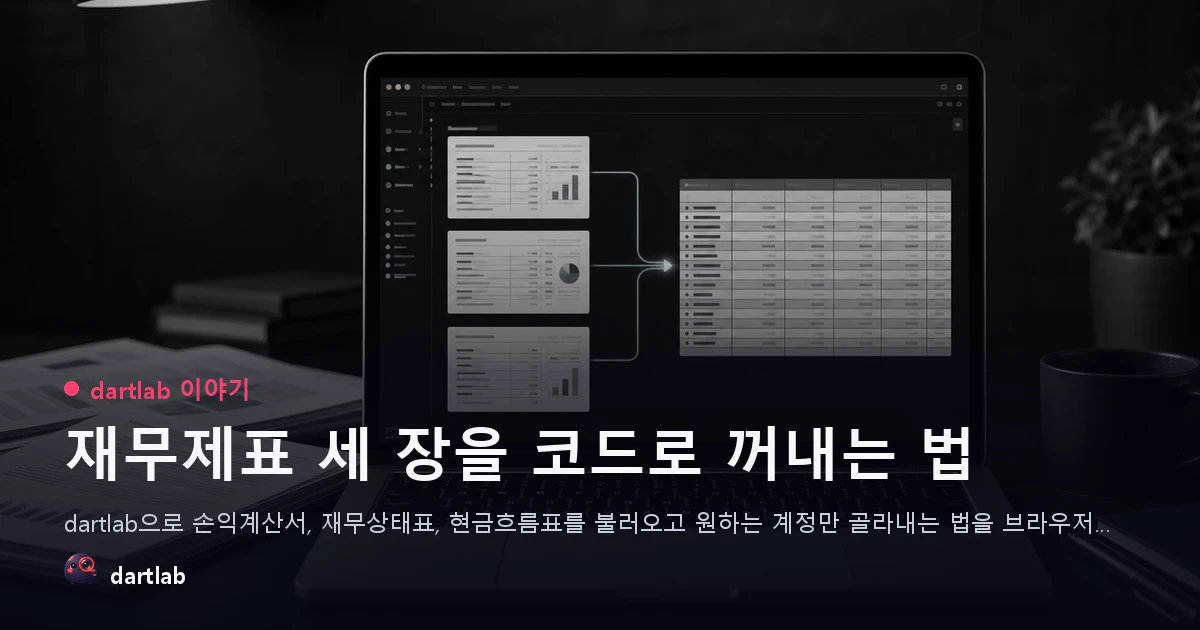
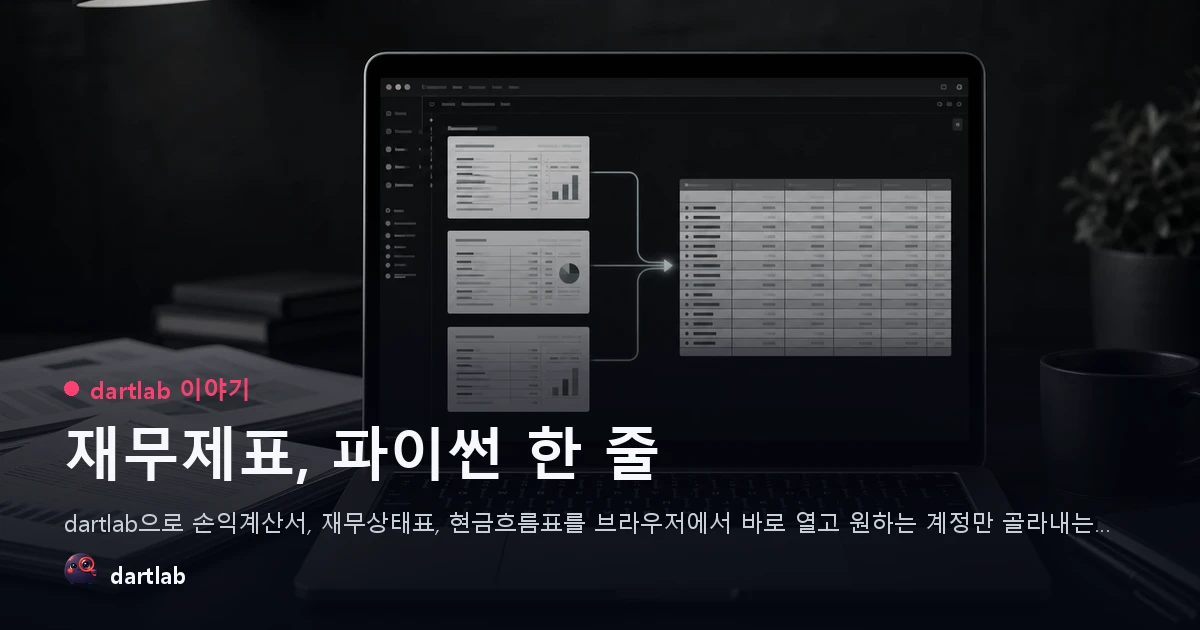
수정: dartlab 이야기 제목 파이프라인 강화

Changed region(s): [[0.2467, 0.6635, 0.74, 0.7841], [0.4933, 0.8143, 0.925, 0.8444], [0.7708, 0.6635, 0.8325, 0.7841]]

diff --git a/blog/_scripts/blog_plan_loop.workflow.js b/blog/_scripts/blog_plan_loop.workflow.js
@@ -267,7 +267,7 @@ if (contentKind === 'dartlab-stories') {
 // 이 편이 안 갚는다고 깎는다. 88~89 점에서 영영 도는 함정이었다(2026-07-10 실측).
 // 그래서 이 장르는 자기 원칙을 따로 가진다. 평가자·회의자도 같은 원칙으로 심사한다.
 const STORY_PRINCIPLES = `dartlab 이야기(교육 연재) 원칙(합격선):
-0. 제목: 이 편을 다 읽으면 독자가 무엇을 할 수 있게 되는지 약속한다. 그 약속을 이 편 안에서 반드시 갚는다. 다음 편으로 미룰 약속은 제목에 걸지 않는다. 안 갚는 미스터리 훅("왜 그 해만 꺼졌나")은 실패다. 후보 3개 이상을 비교한다.
+0. 제목 파이프라인: 먼저 외부 검색자가 칠 말 하나를 고른다(DART 공시분석, 재무제표 파이썬, 사업보고서 코드). 제목은 18자 안팎, 최대 24자다. 구조는 "검색어, 즉시 효용" 또는 "대상, 행동 한 줄"만 인정한다. "무엇인가", "사용법 정리", "총정리", "하는 법"만 늘인 제목, 브랜드 소개형 제목, 긴 문장형 제목은 실패다. 후보 3개 모두 이 기준을 통과해야 한다.
 1. 관통선: 독자가 지금 당장 하고 싶은 일 하나("재무제표를 어떻게 꺼내나"). 회사의 이상한 숫자가 아니다. 이 연재의 주어는 도구이지 회사가 아니다.
 2. 핵심 인싸이트: 이 편이 가르치는 개념 하나. 다 읽고 나면 독자가 그 개념으로 새로운 것을 직접 해 볼 수 있어야 한다. 통념 반전이 아니라 능력 획득이 payoff 다.
 3. 단계 구조: 최소 3단계. 무엇을 왜 배우나, 직접 해 본다, 무엇을 얻었고 다음은 무엇인가. 6막 인과가 아니다. 각 단계는 앞 단계가 준 능력을 딛는다.

diff --git a/blog/_scripts/auditBlog.py b/blog/_scripts/auditBlog.py
@@ -63,6 +63,12 @@ BLOG_REQUIRED_PLAN_FIELDS = (
     "honestyGuards",
     "evidenceMap",
 )
+DARTLAB_TITLE_FORBIDDEN_RE = re.compile(r"무엇\s*인가|사용법|총정리|정리$|하는\s*법|꺼내는\s*법|호출\s*방법|소개")
+DARTLAB_TITLE_SEARCH_RE = re.compile(
+    r"DART|EDGAR|공시|재무제표|사업보고서|손익계산서|재무상태표|현금흐름표|계정|데이터",
+    re.I,
+)
+DARTLAB_TITLE_ACTION_RE = re.compile(r"설치|파이썬|코드|브라우저|한\s*줄|조회|불러오|실행|시작|열기|분석")
 
 
 @dataclass
@@ -314,6 +320,22 @@ def _compact_len(value: object) -> int:
     return len(re.sub(r"[^0-9A-Za-z가-힣]", "", str(value or "")))
 
 
+def _validate_dartlab_story_title(value: object, label: str) -> list[str]:
+    title = str(value or "").strip()
+    fails: list[str] = []
+    if not title:
+        return [f"{label}: 제목 누락"]
+    if _compact_len(title) > 24:
+        fails.append(f"{label}: dartlab 이야기 제목은 최대 24자여야 함({title!r})")
+    if DARTLAB_TITLE_FORBIDDEN_RE.search(title):
+        fails.append(f"{label}: 소개형·정리형·긴 방법론 제목은 금지({title!r})")
+    if not DARTLAB_TITLE_SEARCH_RE.search(title):
+        fails.append(f"{label}: 외부 검색어(DART, 공시, 재무제표, 사업보고서 등)가 필요함({title!r})")
+    if not DARTLAB_TITLE_ACTION_RE.search(title):
+        fails.append(f"{label}: 즉시 효용(설치, 파이썬, 코드, 브라우저, 실행 등)이 필요함({title!r})")
+    return fails
+
+
 def _load_json_payload(path: Path) -> tuple[dict[str, object] | None, str | None]:
     try:
         payload = json.loads(path.read_text(encoding="utf-8"))
@@ -428,6 +450,15 @@ def _validate_common_plan(
         fails.append(f"{label}: 제목이 설명형 템플릿으로 끝남({selected!r})")
     if re.search(r"돈을\s*못\s*번|누가\s*돈을\s*버나|왜\s*못\s*버나", selected):
         fails.append(f"{label}: 제목이 반복 금융 템플릿임({selected!r})")
+    if category == "dartlab-stories":
+        fails.extend(_validate_dartlab_story_title(selected, f"{label}: titleContract.selectedTitle"))
+        plan_title = str(plan.get("title") or "")
+        fails.extend(_validate_dartlab_story_title(plan_title, f"{label}: title"))
+        for idx, raw in enumerate(candidates, start=1):
+            if isinstance(raw, dict):
+                fails.extend(
+                    _validate_dartlab_story_title(raw.get("title"), f"{label}: titleContract.candidates[{idx}]")
+                )
 
     insight = plan.get("insight") if isinstance(plan.get("insight"), dict) else {}
     for field in ("commonBelief", "twistFact", "whatToWatch", "freshnessArgument"):
@@ -523,6 +554,7 @@ def _validate_common_plan(
 
 def _validate_genre_body(raw: str, body: str, category: str) -> list[str]:
     fails: list[str] = []
+    title = _clean_scalar(frontmatter_value(raw, "title"))
     topic_slug = _clean_scalar(frontmatter_value(raw, "topicSlug"))
     stock_code = _clean_scalar(frontmatter_value(raw, "stockCode"))
     upper_body = body.upper()
@@ -586,6 +618,7 @@ def _validate_genre_body(raw: str, body: str, category: str) -> list[str]:
     elif category == "dartlab-stories":
         # 주어는 회사가 아니라 dartlab 이다. 본문 코드는 독자가 브라우저에서 그대로 실행한다.
         # 계약 밖 호출이 섞이면 tests/audit/notebookContract.py 가 따로 막는다.
+        fails.extend(_validate_dartlab_story_title(title, "frontmatter title"))
         if not topic_slug:
             fails.append("dartlab 이야기는 frontmatter topicSlug 가 필요함")
         if stock_code:

diff --git a/blog/_scripts/test_audit_blog_gate.py b/blog/_scripts/test_audit_blog_gate.py
@@ -268,3 +268,9 @@ def test_publish_gate_blocks_visuals_without_inline_use(monkeypatch, tmp_path: P
     errors = ab.publish_gate(post)
     assert any("visuals[1].placement" in err for err in errors)
     assert any("imagePlan[2].narrativeUse" in err for err in errors)
+
+
+def test_dartlab_story_title_gate_blocks_intro_title() -> None:
+    assert not ab._validate_dartlab_story_title("DART 공시분석, 설치 없이", "title")
+    errors = ab._validate_dartlab_story_title("dartlab이란 무엇인가", "title")
+    assert any("소개형" in err for err in errors)

diff --git a/blog/03-dartlab-stories/PIPELINE.md b/blog/03-dartlab-stories/PIPELINE.md
@@ -13,12 +13,22 @@ dartlab 이야기는 **"이걸 네가 직접 해 봐"** 다.
   버튼 하나로 그 글 전체가 노트북이 된다. 실행해 보지 않은 코드는 싣지 않는다.
 - **커리큘럼은 연재가 진다.** 노트북 허브에는 레슨이 없다. 배우는 곳은 여기다.
 
-## 2. 준용
+## 2. 제목 파이프라인
+
+dartlab 이야기의 제목은 내부 커리큘럼 라벨이 아니라 외부 검색자가 들어오는 문이다.
+
+1. **검색어 하나를 먼저 고른다.** 예: `DART 공시분석`, `재무제표 파이썬`, `사업보고서 코드`.
+2. **18자 안팎, 최대 24자.** 한 문장형 긴 제목은 탈락이다.
+3. **구조는 둘뿐이다.** `검색어, 즉시 효용` 또는 `대상, 행동 한 줄`.
+4. **금지한다.** `무엇인가`, `사용법 정리`, `총정리`, `하는 법`만 늘인 제목, 브랜드 소개형 제목, 긴 문장형 제목.
+5. **titleContract.candidates 3개도 모두 통과해야 한다.** `selectedTitle` 은 후보 중 가장 짧고 검색 훅이 선명한 제목이어야 한다.
+
+## 3. 준용
 
 Phase 1 적대 토론 기획 92점 루프 / Phase 2.5 마스터라이터 편집 게이트 / Phase 4 독자 루프 /
 수치 6원칙·검증표 / 용어 풀어쓰기 / `audit_seo.py` 95 이상 / `auditBlog.py --gate` 통과.
 
-## 3. 델타
+## 4. 델타
 
 1. **본문 코드 = 실행되는 셀.** ` ```python ` 코드펜스가 곧 실행 셀이다. 별도 문법도 별도 산출물도
    없다. `landing/src/routes/blog/[slug]/+page.svelte` 가 `pre[data-lang="python"]` 를 찾아 실행 막대를
@@ -46,7 +56,7 @@ Phase 1 적대 토론 기획 92점 루프 / Phase 2.5 마스터라이터 편집 
    넣을 때는 번호와 `seriesOrder` 를 함께 옮긴다. 전체 지도는 비공개 설계문서
    `mainPlan/dartlab-story-curriculum/` 이 정본이다.
 
-## 4. 기획 (Phase 1)
+## 5. 기획 (Phase 1)
 
 ```bash
 Workflow({
@@ -59,7 +69,7 @@ Workflow({
 엔지니어) 가 이 카테고리 지침이다. 92점을 넘으면 `brief.json` 을 글 폴더에 쓰고, **그 자리에서
 `imagePlan` 대로 이미지를 만든다**.
 
-## 5. 발행 게이트
+## 6. 발행 게이트
 
 ```bash
 uv run python -X utf8 tests/audit/notebookContract.py             # 본문 코드가 공개 계약 안인가

diff --git a/blog/03-dartlab-stories/01-what-is-dartlab/index.md b/blog/03-dartlab-stories/01-what-is-dartlab/index.md
@@ -1,7 +1,7 @@
 ---
-title: "dartlab이란 무엇인가"
+title: "DART 공시분석, 설치 없이"
 date: "2026-07-10"
-description: "설치 없이 브라우저에서 전자공시와 재무제표를 다루는 dartlab의 정체, 데이터가 어떤 모양으로 쌓여 있는지, 그리고 그 데이터가 어떻게 갱신되고 운영되는지를 처음 보는 사람 기준으로 정리한다."
+description: "DART 공시와 EDGAR 재무 데이터를 브라우저에서 바로 열고, 회사 격자와 시장 스캔을 실행해 설치 없는 공시분석 흐름과 데이터 구조를 코드로 확인한다."
 category: dartlab-stories
 series: dartlab-stories
 seriesOrder: 1
@@ -134,7 +134,7 @@ c.select("IS", ["매출액"], freq="Y")   # 손익계산서에서 매출액 한 
 
 ## 다음 편에서 할 것
 
-이번 편에서는 dartlab이 무엇이고, 데이터가 어떤 모양이며, 그것이 어떻게 갱신되는지를 훑었다. 다음 편 [재무제표를 코드 두 줄로 꺼내는 법](/blog/call-financial-statements)은 손을 더 깊이 넣는다. **재무제표를 실제로 불러오고, 원하는 항목을 골라내고, 그것을 표로 만드는 법**이다.
+이번 편에서는 DART 공시분석을 설치 없이 시작하고, 데이터가 어떤 모양이며, 그것이 어떻게 갱신되는지를 훑었다. 다음 편 [재무제표, 파이썬 한 줄](/blog/call-financial-statements)은 손을 더 깊이 넣는다. **재무제표를 실제로 불러오고, 원하는 항목을 골라내고, 그것을 표로 만드는 법**이다.
 
 그 전에, 위 코드 칸 중 아무거나 회사 코드를 바꿔 다시 실행해 보라. `005930` 자리에 `000660`을 넣으면 SK하이닉스가 된다. 코드 한 글자를 바꾸는 것만으로 대상이 바뀐다는 것이 이 도구의 전부이자 시작이다.
 

diff --git a/blog/03-dartlab-stories/02-call-financial-statements/index.md b/blog/03-dartlab-stories/02-call-financial-statements/index.md
@@ -1,7 +1,7 @@
 ---
-title: "재무제표 세 장을 코드로 꺼내는 법"
+title: "재무제표, 파이썬 한 줄"
 date: "2026-07-10"
-description: "dartlab으로 손익계산서, 재무상태표, 현금흐름표를 불러오고 원하는 계정만 골라내는 법을 브라우저에서 직접 실행하며 익힌다. 연간과 분기의 차이, 연결과 별도의 차이, 계정 이름이 회사마다 다른 문제, 빈칸의 의미까지 다룬다."
+description: "dartlab으로 손익계산서, 재무상태표, 현금흐름표를 브라우저에서 바로 열고 원하는 계정만 골라내는 재무제표 파이썬 호출법과 오독 방지를 익힌다."
 category: dartlab-stories
 series: dartlab-stories
 seriesOrder: 2
@@ -29,7 +29,7 @@ dartlab은 이 문제를 다르게 푼다. 회사 하나의 모든 공시를 미
 
 ![계정과 기간이 만나는 격자](./assets/dartlab-story-02-grid-v2.webp)
 
-[지난 편](/blog/what-is-dartlab)에서 이 표를 한 번 열어 봤다. 이번 편은 그 표를 자유롭게 다루는 법이다. 아래 코드 칸은 전부 이 브라우저 안에서 그대로 돈다. 첫 코드 칸 아래의 "노트북 생성하기"를 누르면 이 글 전체가 여러분의 노트북이 된다.
+[지난 편, DART 공시분석, 설치 없이](/blog/what-is-dartlab)에서 이 표를 한 번 열어 봤다. 이번 편은 그 표를 자유롭게 다루는 법이다. 아래 코드 칸은 전부 이 브라우저 안에서 그대로 돈다. 첫 코드 칸 아래의 "노트북 생성하기"를 누르면 이 글 전체가 여러분의 노트북이 된다.
 
 ## 세 장을 각각 불러 본다
 
